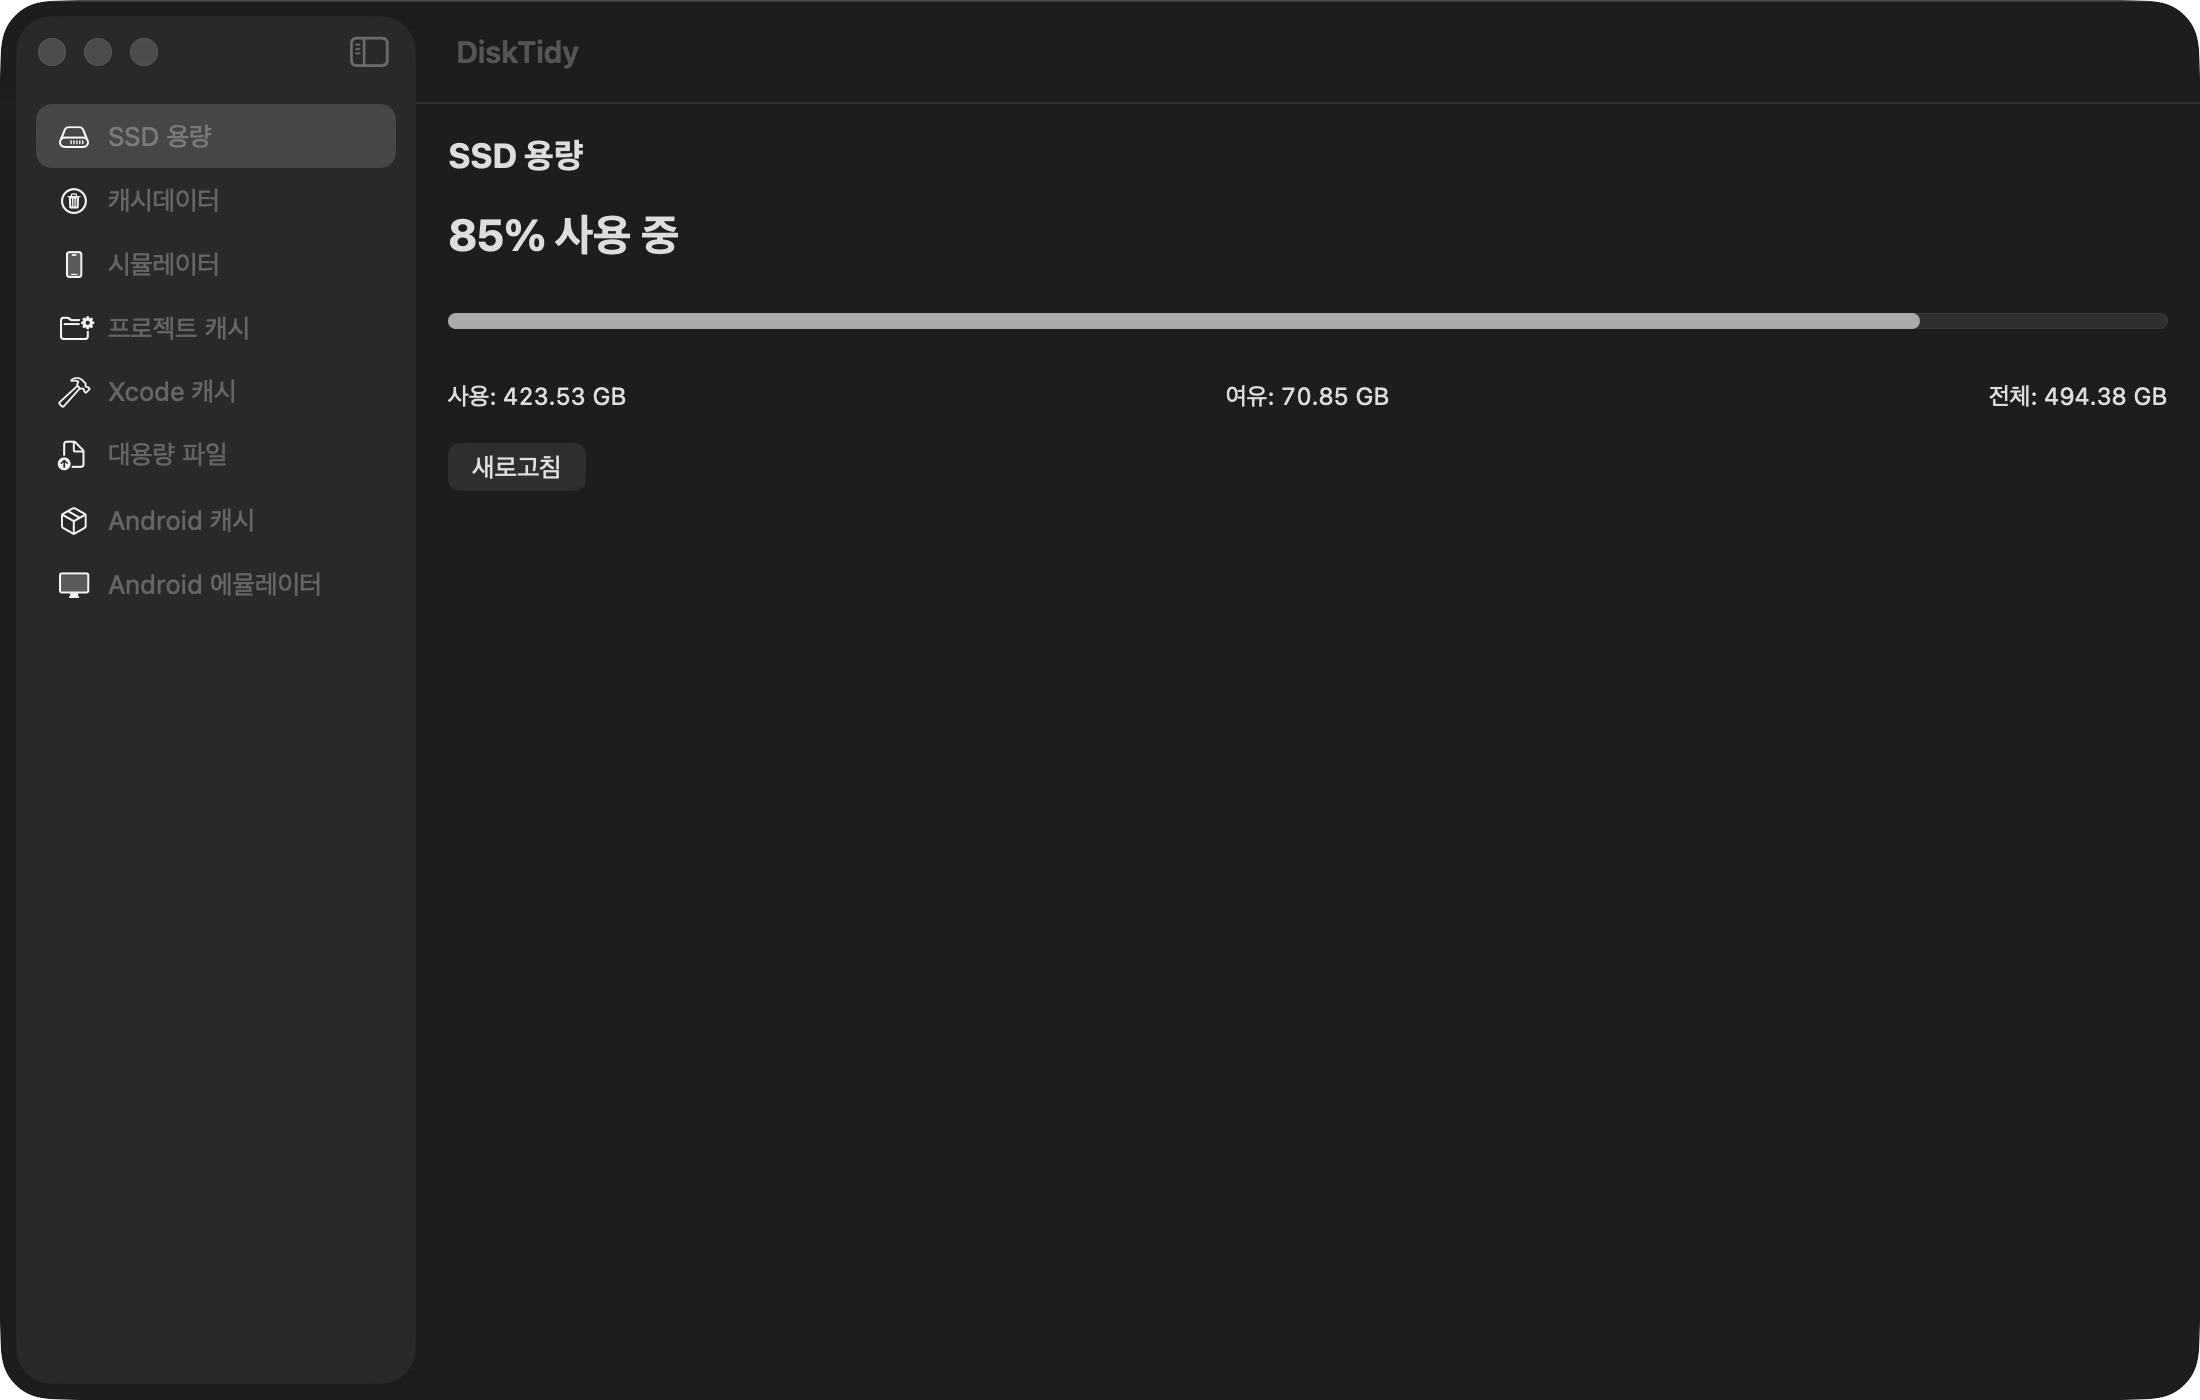
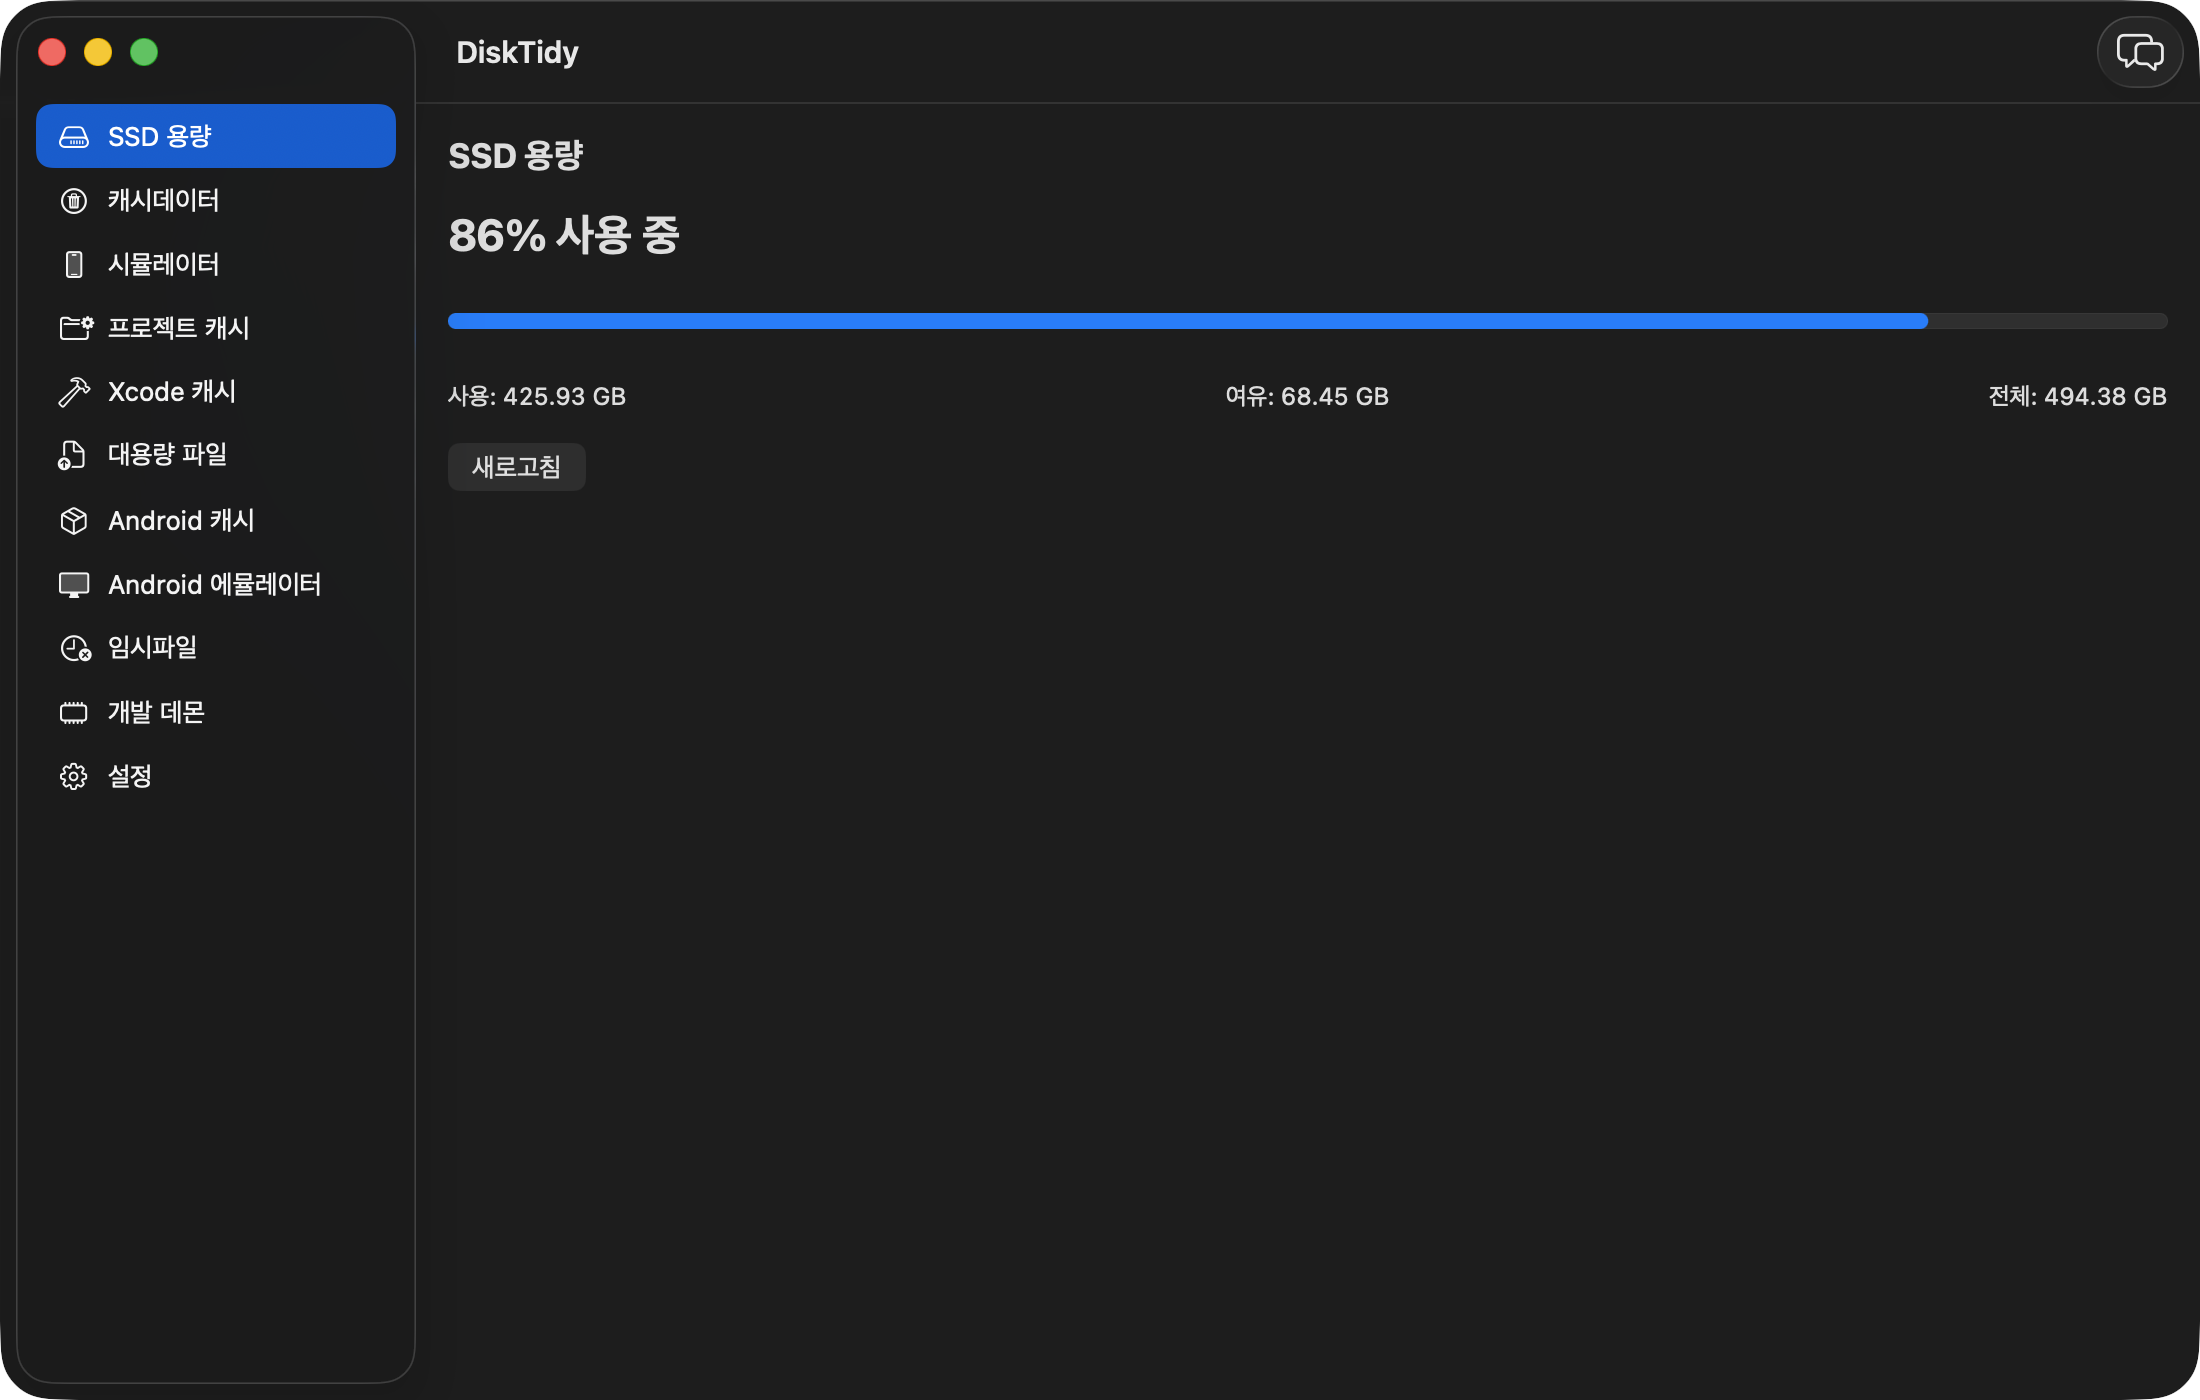
docs: 화면 설명과 스크린샷을 현재 UI로 갱신한다
기존 스크린샷은 사이드바가 8개 항목이던 시절 것이라, 지금은 없는 사이드바 토글
버튼이 찍혀 있고 임시파일·개발 데몬·설정 화면이 빠져 있었다. 12장을 다시 찍고
화면 표에 임시파일·개발 데몬·설정·AI 도우미를 더했다.

- 사이드바 고정과 인스펙터 전환을 본문에 반영한다 (⌃⌘I, 보기 메뉴)
- Xcode 캐시 항목에 외장 디스크 심볼릭 링크를 읽는다는 점을 적는다
- Xcode 캐시 화면은 뺐다. 외장 디스크의 큰 DerivedData에서 스캔이 오래 걸려
  스피너만 찍힌다 — 속도는 별도 과제로 남긴다

스크린샷 출처를 정확히 적었다. 캐시 항목명·프로젝트 경로·홈 경로는 가렸고,
임시파일·대용량 파일은 촬영 시점에 조건을 만족하는 항목이 없어 조건을 통과하는
더미를 만들어 찍었다는 사실을 명시한다. 설정 화면이 개발 빌드 전용 옵트인을 켠
상태라는 것도 적는다 — 배포 빌드에서는 그 제공자가 드롭다운에 없다.

모자이크 전 원본은 `docs/screenshots-raw/`에 두고 gitignore에 넣는다.

diff --git a/README.en.md b/README.en.md
@@ -15,16 +15,22 @@ A macOS disk-cleanup utility. Review and clear app caches, simulators, build cac
 | **App caches** — `~/Library/Caches` by size<br><img src="docs/screenshots/02-cache.png" width="400" alt="App caches screen"> | **Simulators** — least recently used on top<br><img src="docs/screenshots/03-simulator.png" width="400" alt="Simulators screen"> |
 | **Project caches** — recursive build-cache scan<br><img src="docs/screenshots/04-project-cache.png" width="400" alt="Project caches screen"> | **Large files** — files over 200 MB<br><img src="docs/screenshots/06-big-files.png" width="400" alt="Large files screen"> |
 | **Android caches** — Gradle · Android Studio<br><img src="docs/screenshots/07-android-cache.png" width="400" alt="Android caches screen"> | **Android emulators** — AVD list<br><img src="docs/screenshots/08-android-emulator.png" width="400" alt="Android emulators screen"> |
+| **Temp files** — only entries that pass the safety rules<br><img src="docs/screenshots/12-temp.png" width="400" alt="Temp files screen"> | **Dev daemons** — memory and swap plus long-running daemons<br><img src="docs/screenshots/13-memory.png" width="400" alt="Dev daemons screen"> |
+| **Settings** — AI provider setup and window behaviour<br><img src="docs/screenshots/14-settings.png" width="400" alt="Settings screen"> | **AI assistant** — opens as a trailing inspector<br><img src="docs/screenshots/15-chat.png" width="400" alt="AI assistant inspector"> |
 
 The menu-bar item shows SSD usage at all times; clicking it opens a minimal dropdown.
 
 <img src="docs/screenshots/09-menubar.png" width="240" alt="Menu bar dropdown">
 
 > These are real screenshots from daily use. Only the personal parts — cache entry names and project paths — are blurred.
+> The temp-files and large-files screens are exceptions: nothing met the criteria when they were taken, so qualifying dummy entries were created for the shots (owned by me · untouched for 3 days · not open, and over 200 MB respectively).
+> The settings screen has the **local CLI provider** opt-in switched on — that is a development-build-only path, and the provider does not appear in the dropdown in release builds.
 
 ## Features
 
-Eleven screens in a sidebar, plus a persistent menu-bar item and an AI assistant panel on the right.
+Eleven screens in a sidebar, plus a persistent menu-bar item and an AI assistant inspector on the right.
+
+The sidebar is always open at a fixed width. While it collapses and expands, macOS re-lays out the toolbar and flashes the overflow indicator (») for a frame; this reproduces even with every toolbar item removed, so the app cannot prevent it (measured). With only eleven tabs there is nothing to gain by collapsing it.
 
 | Screen | Contents |
 |---|---|
@@ -32,7 +38,7 @@ Eleven screens in a sidebar, plus a persistent menu-bar item and an AI assistant
 | App caches | Per-app directories under `~/Library/Caches` |
 | Simulators | iOS simulators sorted by last use; delete device or erase data |
 | Project caches | Recursive scan for build caches under folders you pick (rules below) |
-| Xcode caches | `DerivedData`, iOS/watchOS/tvOS DeviceSupport, Archives |
+| Xcode caches | `DerivedData`, iOS/watchOS/tvOS DeviceSupport, Archives. Reads them even when symlinked to an external drive |
 | Large files | Files over 200 MB under folders you pick (defaults to `~/Downloads`) |
 | Android caches | Gradle caches and distributions, `~/.android` caches, Android Studio IDE caches |
 | Android emulators | AVDs in `~/.android/avd`; deletion also clears the `.ini` pointer |
@@ -50,7 +56,7 @@ Activation alone measurably is not enough: when another app is full-screen it ow
 
 ## AI assistant
 
-The speech-bubble toolbar button opens a panel on the right. It answers **from the screen you are currently looking at** — item count and total, selection state, the top 40 rows, scan state, error banner, and how that screen deletes things are rebuilt on every question and sent as the system prompt. Tabs register a snapshot function rather than a value, so asking after a scan finishes describes the current list, not an empty one.
+The speech-bubble toolbar button — or **View → Show Inspector (⌃⌘I)** — opens the trailing inspector. It is the standard macOS inspector, so the show/hide animation, the drag-to-resize edge and width persistence all come from the system. It answers **from the screen you are currently looking at** — item count and total, selection state, the top 40 rows, scan state, error banner, and how that screen deletes things are rebuilt on every question and sent as the system prompt. Tabs register a snapshot function rather than a value, so asking after a scan finishes describes the current list, not an empty one.
 
 | Provider | Default root | Wire format |
 |---|---|---|
